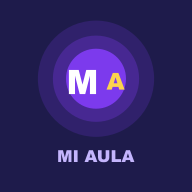
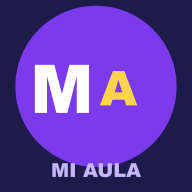
Rediseñar ícono PWA de cero: PNG limpio con círculo violeta, MA y Mi Aula

diff --git a/gen-icon.js b/gen-icon.js
@@ -1,0 +1,45 @@
+const { createCanvas } = require('canvas');
+const fs = require('fs');
+
+function genIcon(size) {
+  const c = createCanvas(size, size);
+  const ctx = c.getContext('2d');
+  const cx = size / 2;
+  const cy = size / 2;
+
+  // Fondo violeta oscuro liso
+  ctx.fillStyle = '#1E1B4B';
+  ctx.fillRect(0, 0, size, size);
+
+  // Círculo violeta central grande
+  ctx.fillStyle = '#7C3AED';
+  ctx.beginPath();
+  ctx.arc(cx, cy - size * 0.05, size * 0.42, 0, Math.PI * 2);
+  ctx.fill();
+
+  // M blanca
+  ctx.fillStyle = '#FFFFFF';
+  ctx.font = `900 ${size * 0.35}px Arial`;
+  ctx.textAlign = 'right';
+  ctx.textBaseline = 'middle';
+  ctx.fillText('M', cx - size * 0.01, cy - size * 0.05);
+
+  // A amarilla
+  ctx.fillStyle = '#FCD34D';
+  ctx.font = `900 ${size * 0.25}px Arial`;
+  ctx.textAlign = 'left';
+  ctx.fillText('A', cx + size * 0.02, cy - size * 0.05);
+
+  // MI AULA abajo
+  ctx.fillStyle = '#C4B5FD';
+  ctx.font = `900 ${size * 0.1}px Arial`;
+  ctx.textAlign = 'center';
+  ctx.textBaseline = 'middle';
+  ctx.fillText('MI AULA', cx, cy + size * 0.38);
+
+  return c.toBuffer('image/png');
+}
+
+fs.writeFileSync('icon-192.png', genIcon(192));
+fs.writeFileSync('icon-512.png', genIcon(512));
+console.log('OK');